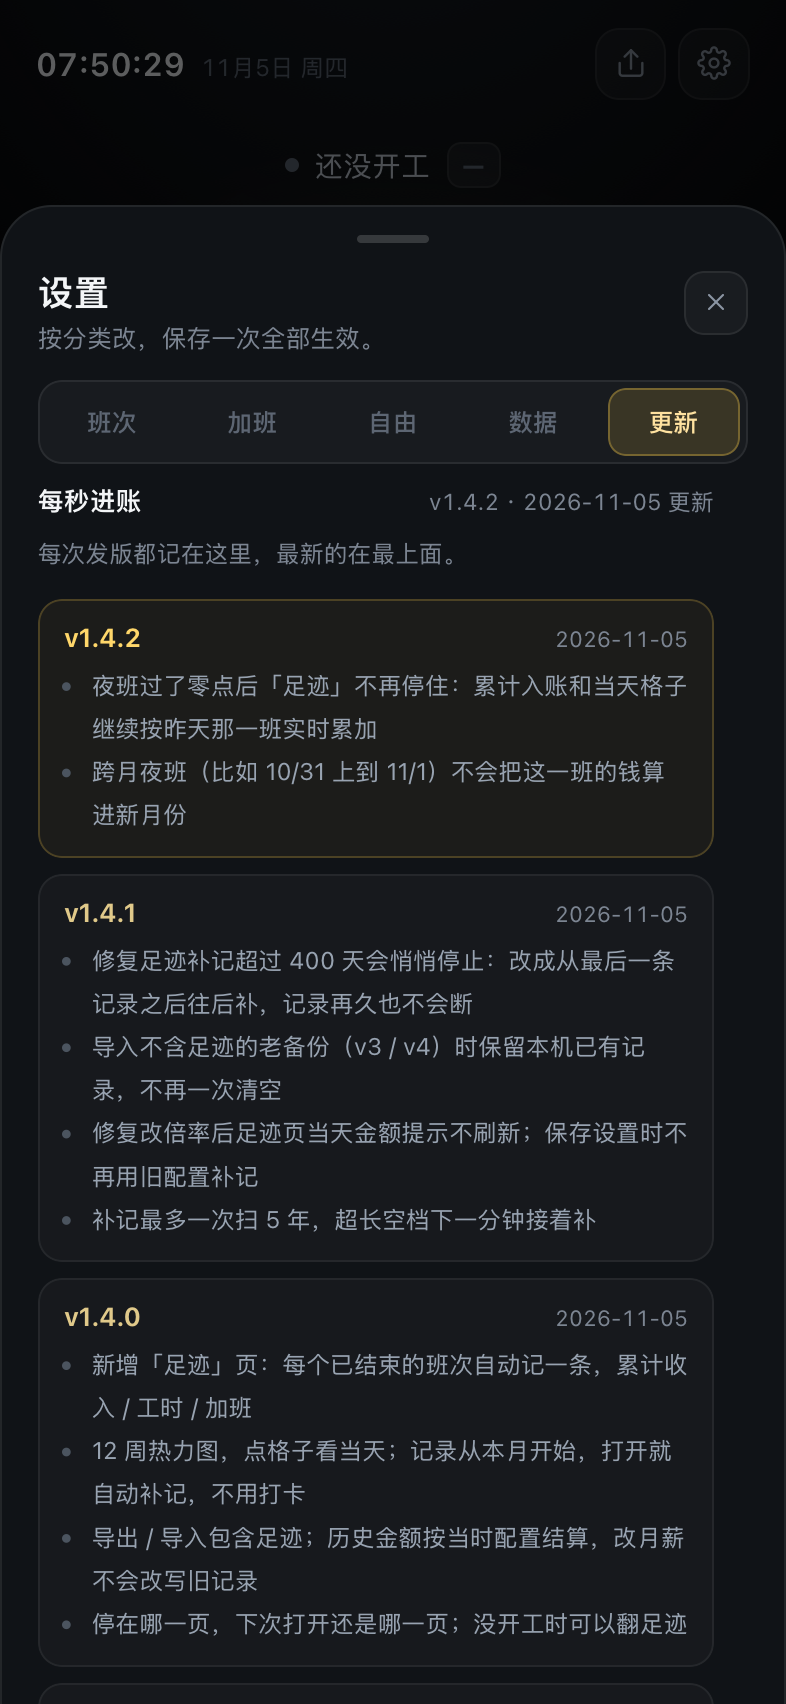
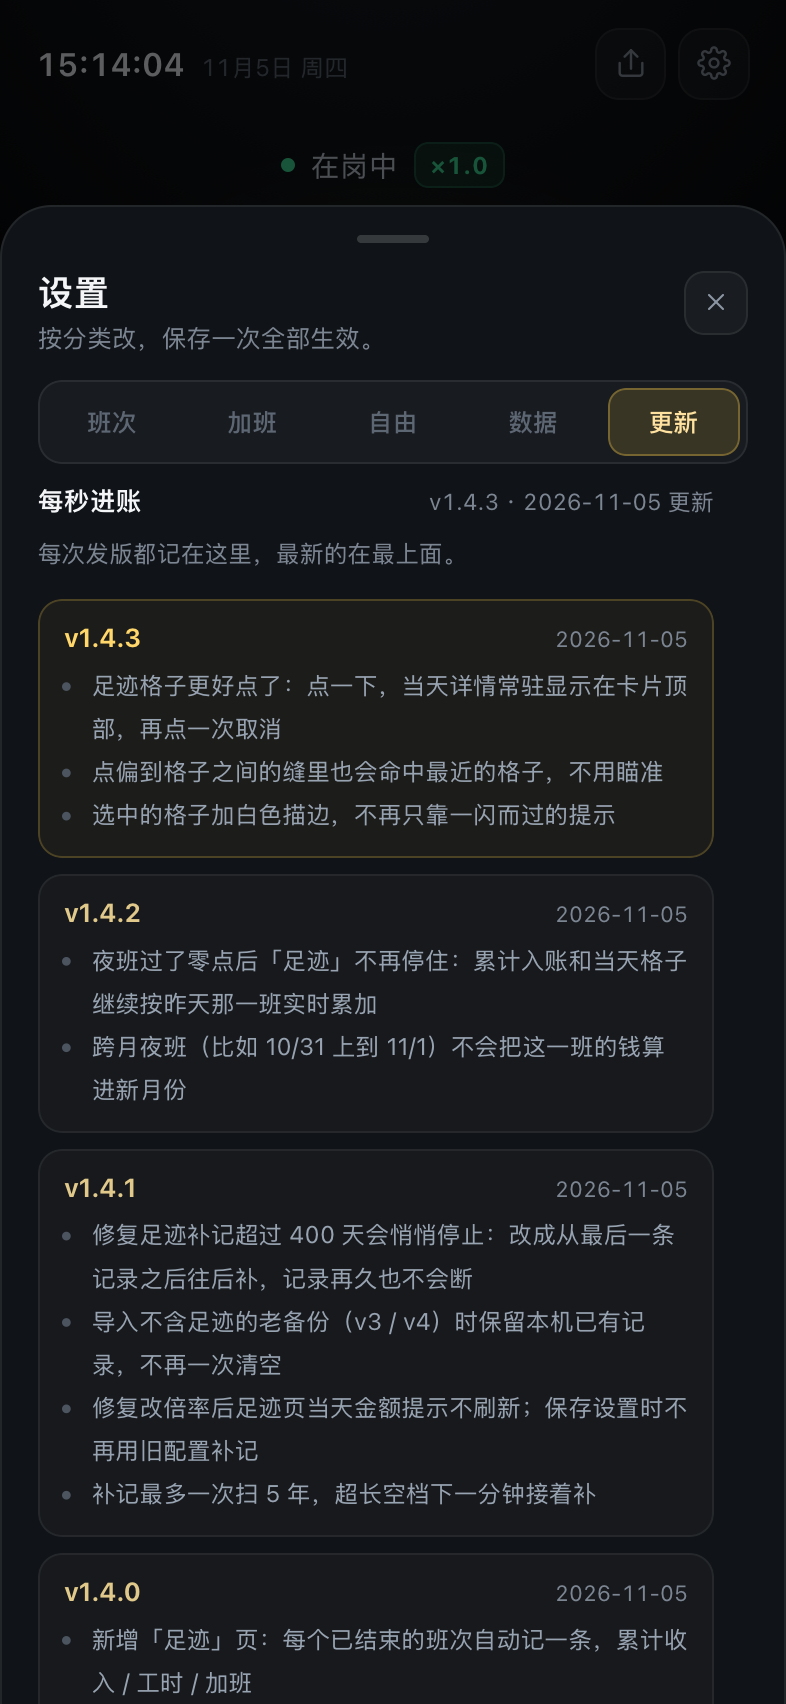
fix: make footprint cells answer taps with a persistent day detail (v1.4.3)

diff --git a/index.html b/index.html
@@ -251,17 +251,25 @@
     backdrop-filter:blur(12px);-webkit-backdrop-filter:blur(12px);
   }
   .history-head{display:flex;align-items:baseline;justify-content:space-between;gap:10px;font-size:12.5px;color:#aab3bf}
-  .history-head span:last-child{font-size:11px;color:#7c8592;font-variant-numeric:tabular-nums}
+  .history-head span:last-child{
+    flex:1 1 auto;min-width:0;text-align:right;white-space:nowrap;overflow:hidden;text-overflow:ellipsis;
+    font-size:11px;color:#7c8592;font-variant-numeric:tabular-nums;
+  }
+  .history-head span.sel{color:#e8c46a;font-size:11.5px}
+  .history-head.detailing span:first-child{display:none}
+  .history-head.detailing span:last-child{text-align:left}
   .heatmap{
     display:grid;grid-template-columns:repeat(12,1fr);gap:4px;
     width:min(100%,280px);margin:2px auto;
   }
   .hm-cell{aspect-ratio:1;border-radius:4px;background:rgba(255,255,255,.045);cursor:pointer}
+  .hm-cell:active{transform:scale(.88)}
   .hm-cell.l1{background:rgba(247,201,72,.16)}
   .hm-cell.l2{background:rgba(247,201,72,.36)}
   .hm-cell.l3{background:rgba(247,201,72,.62)}
   .hm-cell.l4{background:rgba(247,201,72,.92)}
   .hm-cell.today{box-shadow:inset 0 0 0 1px rgba(255,255,255,.8)}
+  .hm-cell.sel{outline:2px solid rgba(255,255,255,.9);outline-offset:1px}
   .hm-cell.future{opacity:.18;cursor:default}
   .hm-cell.before{opacity:.4}
   .history-foot{display:flex;align-items:center;justify-content:space-between;gap:8px;font-size:10.5px;color:#5d6673}
@@ -792,7 +800,7 @@
   </section>
 
   <section class="history-card" id="historyCard" style="display:none">
-    <div class="history-head">
+    <div class="history-head" id="historyHead">
       <span>最近 12 周</span>
       <span id="historyRange">—</span>
     </div>
@@ -1185,8 +1193,13 @@
   }
 
   // 当前版本 + 更新日志（发版时改这里，设置面板直接渲染）
-  var APP_VERSION = "1.4.2";
+  var APP_VERSION = "1.4.3";
   var CHANGELOG = [
+    { version: "1.4.3", date: "2026-11-05", items: [
+      "足迹格子更好点了：点一下，当天详情常驻显示在卡片顶部，再点一次取消",
+      "点偏到格子之间的缝里也会命中最近的格子，不用瞄准",
+      "选中的格子加白色描边，不再只靠一闪而过的提示"
+    ] },
     { version: "1.4.2", date: "2026-11-05", items: [
       "夜班过了零点后「足迹」不再停住：累计入账和当天格子继续按昨天那一班实时累加",
       "跨月夜班（比如 10/31 上到 11/1）不会把这一班的钱算进新月份"
@@ -2194,6 +2207,7 @@
     }),
     funLine: $("funLine"), explainCard: $("explainCard"), toast: $("toast"),
     historyCard: $("historyCard"), heatmap: $("heatmap"), historyRange: $("historyRange"),
+    historyHead: $("historyHead"),
     sheet: $("sheet"), backdrop: $("backdrop"), settingsBtn: $("settingsBtn"),
     sheetTabs: $("sheetTabs"), sheetBody: $("sheetBody"), sheetFoot: $("sheetFoot"),
     updateDot: $("updateDot"), gearDot: $("gearDot"),
@@ -2521,6 +2535,7 @@
   }
 
   var hmSig = "";
+  var hmSel = "";   // 当前选中的那一天（点格子看详情；再点一次取消）
   function renderHistoryHeatmap(now){
     var cells = heatmapCells(state.history, now, 12);
     var full = dailyWorkSec(state.cfg) || 1;
@@ -2530,12 +2545,11 @@
     var todayLive = (live && !state.history[liveKey]) ? live : null;
     var sig = state.historyRev + "|" + Object.keys(state.history).length + "|" + todayK + "|" + liveKey + "|" +
       (todayLive ? Math.floor(todayLive.sec / 60) + ":" + Math.round(todayLive.amount) : "-") + "|" +
-      state.recordStart + "|" + Math.round(full) + "|" + Math.round(Number(state.cfg.salary) || 0);
+      state.recordStart + "|" + Math.round(full) + "|" + Math.round(Number(state.cfg.salary) || 0) + "|" + hmSel;
     if (sig === hmSig) return;
     hmSig = sig;
 
     var html = "";
-    var first = cells[0].key, last = cells[cells.length - 1].key;
     for (var i = 0; i < cells.length; i++){
       var c = cells[i];
       var cSec = c.sec, cAmt = c.amount;
@@ -2543,18 +2557,61 @@
       var ratio = full > 0 ? cSec / full : 0;
       var lvl = ratio <= 0 ? 0 : ratio < 0.5 ? 1 : ratio < 0.95 ? 2 : ratio < 1.25 ? 3 : 4;
       var cls = "hm-cell" + (lvl ? " l" + lvl : "") + (c.today ? " today" : "") +
-        (c.future ? " future" : "") + (state.recordStart && c.key < state.recordStart ? " before" : "");
+        (c.future ? " future" : "") + (state.recordStart && c.key < state.recordStart ? " before" : "") +
+        (c.key === hmSel ? " sel" : "");
       var tip = c.key.slice(5).replace("-", "/") +
         (cSec > 0 ? " · " + fmtHour(cSec / 3600) + " · ¥" + fmt2(cAmt) : " · 没有记录");
-      html += '<div class="' + cls + '" data-key="' + c.key + '" data-sec="' + Math.round(cSec) +
+      html += '<div class="' + cls + '" role="button" tabindex="-1" data-key="' + c.key + '" data-sec="' + Math.round(cSec) +
         '" data-amount="' + (Math.round(cAmt * 100) / 100) + '" title="' + tip + '"></div>';
     }
     el.heatmap.innerHTML = html;
-    var f = new Date(first + "T00:00:00"), l = new Date(last + "T00:00:00");
-    if (el.historyRange){
-      el.historyRange.textContent = (f.getMonth() + 1) + "/" + f.getDate() +
-        " – " + (l.getMonth() + 1) + "/" + l.getDate();
+    renderHistoryHead();
+  }
+
+  // 选中的那天显示在卡片顶部（常驻，不靠一闪而过的提示）；没选中时恢复日期范围
+  function renderHistoryHead(){
+    var cells = el.heatmap.querySelectorAll(".hm-cell");
+    if (!cells.length) return;
+    var target = null;
+    for (var i = 0; i < cells.length; i++){
+      var on = !!hmSel && cells[i].getAttribute("data-key") === hmSel;
+      cells[i].classList.toggle("sel", on);
+      if (on) target = cells[i];
     }
+    if (hmSel && !target){
+      hmSel = "";
+      hmSig = "";
+    }
+    if (target){
+      var sec = Number(target.getAttribute("data-sec")) || 0;
+      var amt = Number(target.getAttribute("data-amount")) || 0;
+      var d = new Date(target.getAttribute("data-key") + "T00:00:00");
+      var txt = (d.getMonth() + 1) + "/" + d.getDate() + " 周" + WEEK_CN[d.getDay()] + " · ";
+      txt += (sec > 0 || amt > 0) ? (fmtHour(sec / 3600) + " · ¥" + fmt2(amt)) : "没有记录";
+      el.historyHead.classList.add("detailing");
+      el.historyRange.textContent = txt;
+      el.historyRange.classList.add("sel");
+      return;
+    }
+    el.historyHead.classList.remove("detailing");
+    var f = new Date(cells[0].getAttribute("data-key") + "T00:00:00");
+    var l = new Date(cells[cells.length - 1].getAttribute("data-key") + "T00:00:00");
+    el.historyRange.textContent = (f.getMonth() + 1) + "/" + f.getDate() +
+      " – " + (l.getMonth() + 1) + "/" + l.getDate();
+    el.historyRange.classList.remove("sel");
+  }
+
+  // 点在格子缝里也算：取最近的那个格子，20px 的小方块不用瞄准
+  function nearestHeatmapCell(x, y){
+    var cells = el.heatmap.querySelectorAll(".hm-cell");
+    var best = null, bestD = 30 * 30;
+    for (var i = 0; i < cells.length; i++){
+      var r = cells[i].getBoundingClientRect();
+      var dx = x - (r.left + r.width / 2), dy = y - (r.top + r.height / 2);
+      var d = dx * dx + dy * dy;
+      if (d < bestD){ bestD = d; best = cells[i]; }
+    }
+    return best;
   }
 
   /* ==========================================================
@@ -3088,13 +3145,12 @@
 
   el.heatmap.addEventListener("click", function(ev){
     var cell = ev.target.closest ? ev.target.closest(".hm-cell") : null;
+    if (!cell && isFinite(ev.clientX) && isFinite(ev.clientY)) cell = nearestHeatmapCell(ev.clientX, ev.clientY);
     if (!cell) return;
-    var sec = Number(cell.getAttribute("data-sec")) || 0;
-    var amt = Number(cell.getAttribute("data-amount")) || 0;
     var key = cell.getAttribute("data-key") || "";
-    var day = key.slice(5).replace("-", "/");
-    if (!(sec > 0) && !(amt > 0)){ toast(day + " 没有记录"); return; }
-    toast(day + " · " + fmtHour(sec / 3600) + " · ¥" + fmt2(amt));
+    if (!key) return;
+    hmSel = (hmSel === key) ? "" : key;
+    renderHistoryHead();
   });
 
   document.querySelectorAll(".tabs button").forEach(function(btn){

diff --git a/sw.js b/sw.js
@@ -8,7 +8,7 @@
  * 导航策略：网络优先（900ms 超时），失败回退干净缓存，再失败给友好离线页。
  * 这样新版能立刻生效，慢网/断网也不会白屏。
  */
-const VERSION = "1.4.2";
+const VERSION = "1.4.3";
 const CACHE = "money-meter-" + VERSION;
 const CORE = [
   "./index.html",

diff --git a/README.zh.md b/README.zh.md
@@ -183,7 +183,7 @@
 
 - 首次打开会从**本月 1 号**开始补记已经结束的班次，之后打开就自动补，不需要手动打卡
 - 正在上的这一班实时累加；夜班过了零点也挂在昨天那一格，不会停住
-- 12 周热力图：颜色越深表示当天班越长，点格子能看当天的工时和金额
+- 12 周热力图：颜色越深表示当天班越长；点格子看当天的工时和金额，详情停在卡片顶部，再点一次取消
 - 累计上班天数 / 工时 / 加班，本月、上月、平均每班，一页看完
 - 停在这一页，下次打开还是「足迹」——没开工时也有东西可翻
 - 导出 / 导入会带上足迹；换设备不丢记录；导入不含足迹的老备份时会保留本机记录
@@ -286,7 +286,7 @@
 
 ## 版本与更新
 
-- 当前版本 **v1.4.2**（2026-11-05）
+- 当前版本 **v1.4.3**（2026-11-05）
 - 设置分成「班次 / 加班 / 自由 / 数据 / 更新」五类；更新日志在「更新」页，有版本号、更新时间、每个版本改了什么
 - 有新版本时点设置会直接打开「更新」页，右上角齿轮也会亮一个小圆点；看过一次就不再提示
 - 屏幕够高时主界面底部也会显示版本号（矮屏收在设置 → 更新里）
